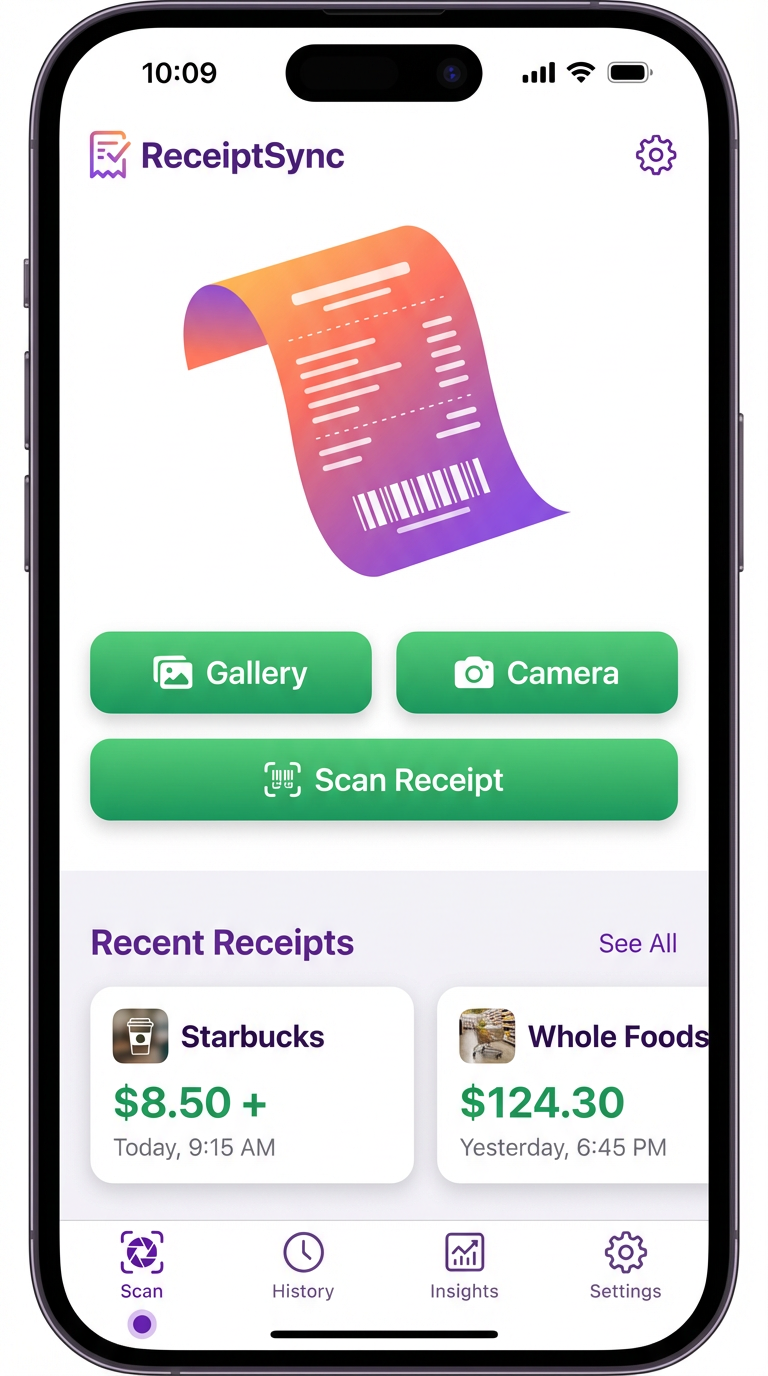
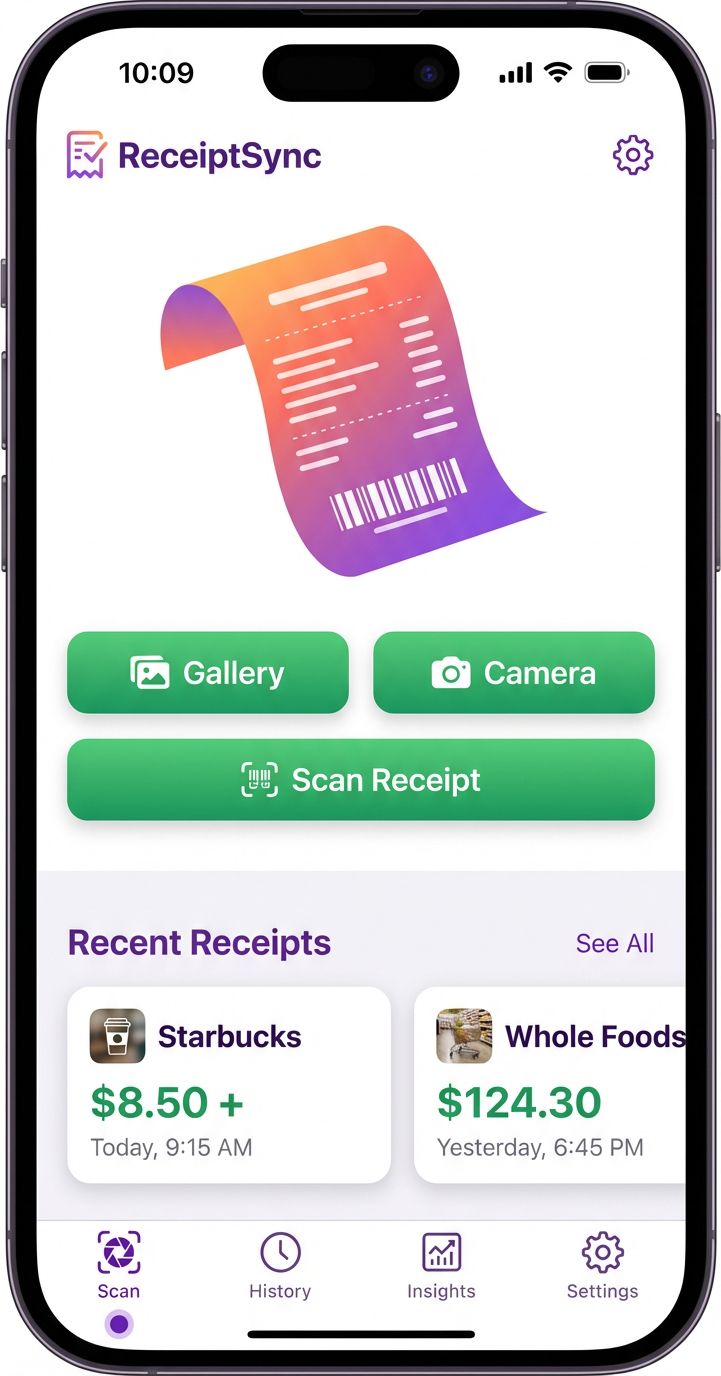
fix: remove white/purple background from phone mockup in HowItWorks section

diff --git a/src/components/HowItWorks.tsx b/src/components/HowItWorks.tsx
@@ -1,7 +1,7 @@
 import { useTranslation } from "react-i18next";
 import { motion, useInView } from "framer-motion";
 import { useRef, useState } from "react";
-import appHomeImg from "@/assets/app-home.png";
+import appHomeImg from "@/assets/enhanced-home-screen.png";
 
 const HowItWorks = () => {
   const { t } = useTranslation();
@@ -71,7 +71,7 @@ const HowItWorks = () => {
               <img
                 src={appHomeImg}
                 alt="ReceiptSync App"
-                className="w-full h-auto rounded-3xl"
+                className="w-full h-auto"
               />
               {/* Glass shine */}
               <div
